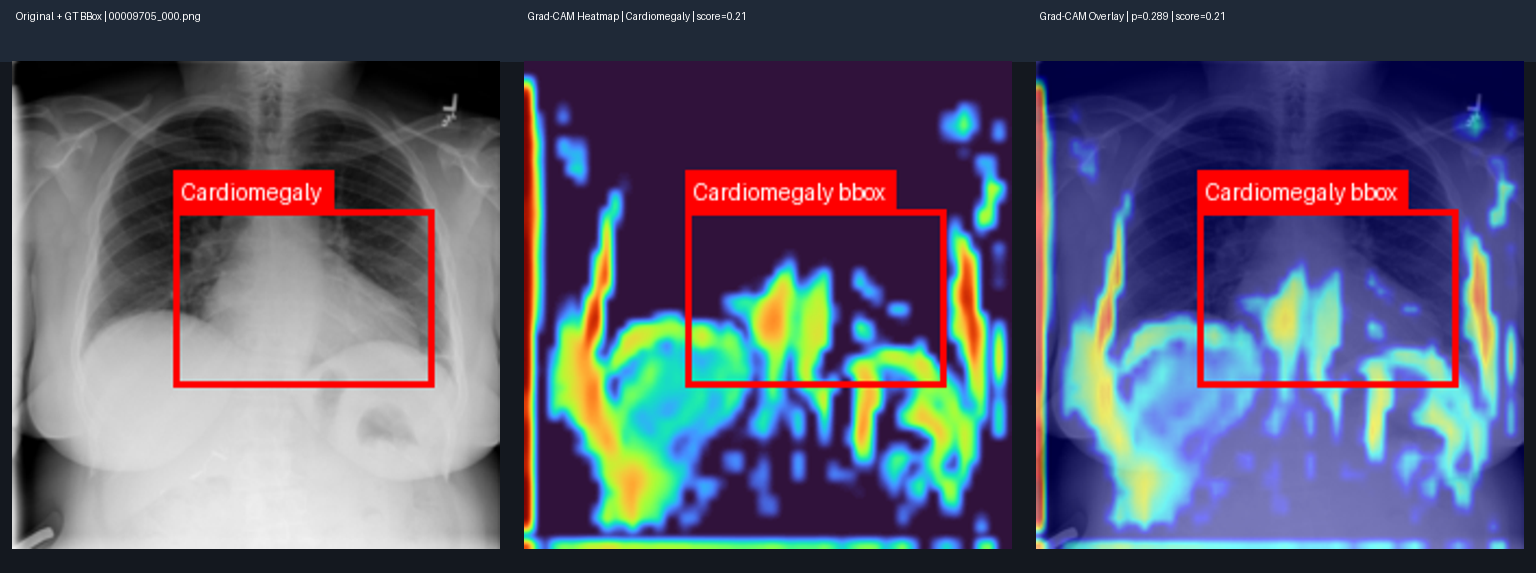
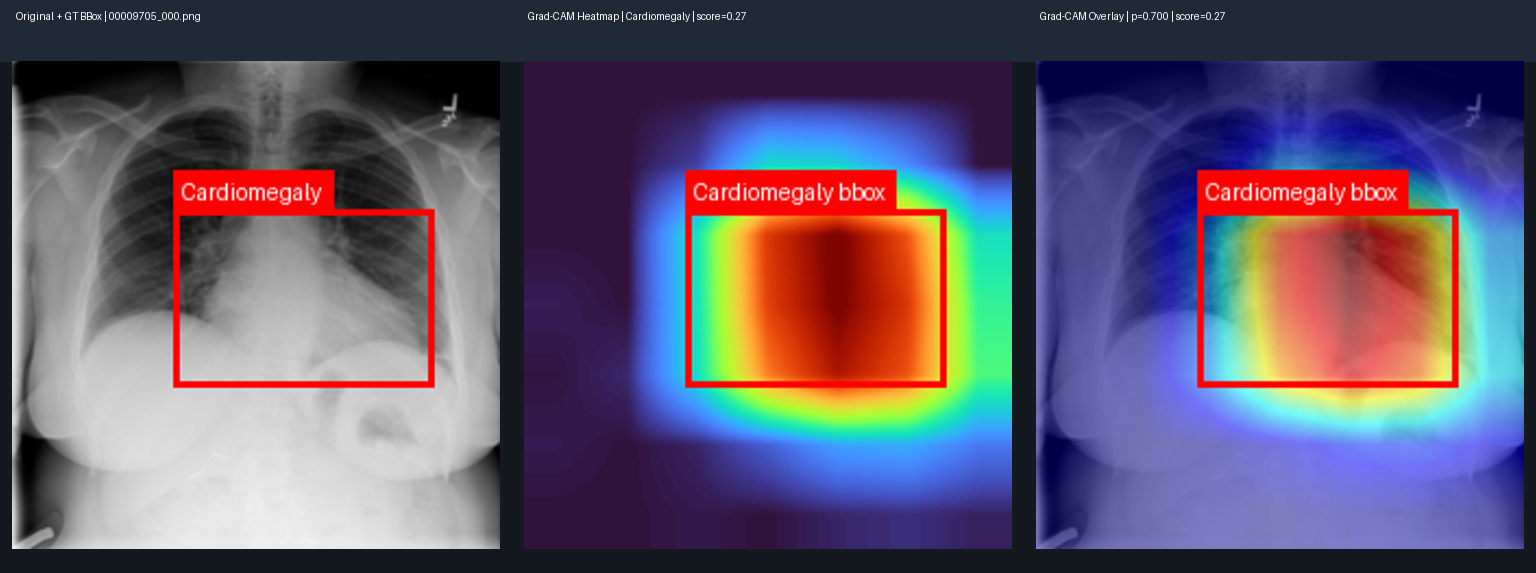
bbox addition

diff --git a/scripts/compare_gradcam_bbox.py b/scripts/compare_gradcam_bbox.py
@@ -1,4 +1,4 @@
-"""Create side-by-side NIH bbox vs Grad-CAM comparison images.
+"""Create side-by-side NIH bbox vs MedFusionNet Grad-CAM comparison images.
 
 This script reads the bbox annotations from `ref/ref.csv`, loads the matching
 X-ray image, draws the ground-truth bounding box, runs model inference, and
@@ -62,10 +62,14 @@ class Sample:
     bbox_y: float
     bbox_w: float
     bbox_h: float
+    age: Optional[float]
 
     @property
     def canonical_label(self) -> str:
         return LABEL_ALIASES.get(self.finding_label, self.finding_label)
+
+    def effective_age(self, default_age: float) -> float:
+        return self.age if self.age is not None else default_age
 
 
 def parse_args() -> argparse.Namespace:
@@ -87,6 +91,12 @@ def parse_args() -> argparse.Namespace:
         "--model-path",
         default="models/best_medfusionnet.pth",
         help="Path to the PyTorch checkpoint used for Grad-CAM.",
+    )
+    parser.add_argument(
+        "--age",
+        type=float,
+        default=48.0,
+        help="Patient age passed to MedFusionNet inference and Grad-CAM.",
     )
     parser.add_argument(
         "--limit",
@@ -129,6 +139,13 @@ def load_samples(csv_path: Path) -> list[Sample]:
             if len(row) < 6:
                 continue
             try:
+                age_value = None
+                if len(row) >= 7:
+                    age_text = row[6].strip()
+                    if age_text:
+                        age_digits = "".join(ch for ch in age_text if ch.isdigit() or ch == ".")
+                        if age_digits:
+                            age_value = float(age_digits)
                 sample = Sample(
                     image_index=row[0].strip(),
                     finding_label=row[1].strip(),
@@ -136,6 +153,7 @@ def load_samples(csv_path: Path) -> list[Sample]:
                     bbox_y=float(row[3]),
                     bbox_w=float(row[4]),
                     bbox_h=float(row[5]),
+                    age=age_value,
                 )
             except ValueError:
                 continue
@@ -276,9 +294,10 @@ def main() -> None:
             continue
 
         class_index = DISEASE_LABELS.index(label)
+        age = sample.effective_age(args.age)
 
         try:
-            probs = predict(str(image_path))
+            probs = predict(str(image_path), age=age)
             heatmaps = generate_pth_heatmaps(
                 model_path=args.model_path,
                 image_file=str(image_path),
@@ -287,6 +306,7 @@ def main() -> None:
                 target_index=class_index,
                 top_k=1,
                 threshold=0.0,
+                age=age,
             )
         except Exception as exc:
             print(f"Skipping {sample.image_index}: {type(exc).__name__}: {exc}", file=sys.stderr)
@@ -357,6 +377,7 @@ def main() -> None:
             },
             "gradcam_probability": result["probability"],
             "bbox_heatmap_energy_ratio": bbox_score,
+            "patient_age": age,
             "output_path": str(out_path),
         }
         (output_dir / f"{Path(sample.image_index).stem}__{label}.json").write_text(
